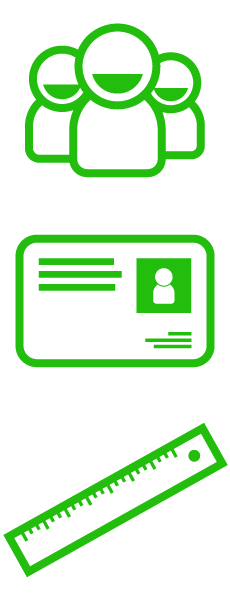
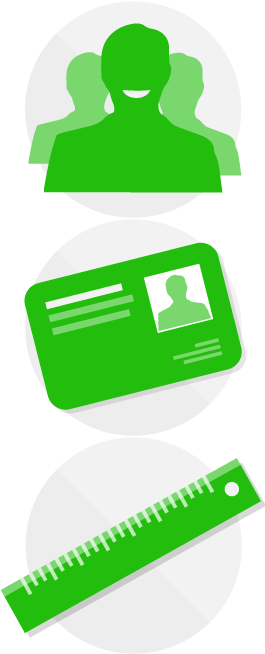
Sección Vision
Inclusión de iconos
Anulación de js

diff --git a/index.html b/index.html
@@ -68,24 +68,29 @@
                     <div class="text">
                         <div class="icon"></div>
                         <h1>Vision</h1>
-                        <strong>We connect businesses with the new generations</strong>
-                        <h2>Customers should get it... Where they here they want it, when they want it and how they want it</h2>
+                        <strong>Customers should get it... Where they here they want it, when they want it and how they want it</strong>
                         <p>Successful products are the result of good products appealing to the targeted people in the right way.</br>
-                        Younger generations behave, appreciate, communicate, decide and shop differently from how their parents did. We bridge the gap between good products and younger generations via creating a RIGHT WAY.</p>
-                        <h2>It should relate, be personal</h2>
-                        <p>Another one-size-fits-all communication, another sad ad, another corporate blah-blah event, another troll in the wall, more spam... First understand what I appreciate, who I am; then build from there.</p>
-                        <h2>It should be easy, friendly</h2>
-                        <p>Media, Telco, Live Streaming, VoD, Online, Games, Walls and Blogs, Trends, Alternative retail channels, Search engines and sites... if you are not using these tools and channels probably you are not fully aligned with the way I talk and where I spend my time.</br>
-                        Make my life easy, come and talk to me.</p>
-                        <h2>It should be measurable</h2>
-                        <p>We believe that any good strategy and plan should include clear goal posts and a success meter. We have digital solutions that measure it from TV coverage for sport sponsorships to Digital analytics for online media.</p>
+                        Younger generations behave, appreciate, communicate, decide and shop differently from how their parents did. We bridge the gap between good products and younger generations via creating a right way.</p>
                     </div>
                 </div>
                 <div class="content column2">
                     <div class="text">
-                        <h3>Asier</h3>
-                        <strong>Founding Partner</strong>
-                        <p>Paul co-founded DesignStudio to offer clients beautifully crafted design on a worldwide scale. He has worked with some of the country's top design agencies, producing award-winning work including branding solutions, guidelines and global design assets for clients including Nokia Siemens Networks and Swisscom.</p>
+                        <div class="items-vision">
+                            <div class="icon-vision personal"></div>
+                            <h2>It should relate, be personal</h2>
+                            <p>Another one-size-fits-all communication, another sad ad, another corporate blah-blah event, another troll in the wall, more spam... First understand what I appreciate, who I am; then build from there.</p>
+                        </div>
+                        <div class="items-vision">
+                            <div class="icon-vision friendly"></div>
+                            <h2>It should be easy, friendly</h2>
+                            <p>Media, Telco, Live Streaming, VoD, Online, Games, Walls and Blogs, Trends, Alternative retail channels, Search engines and sites... if you are not using these tools and channels probably you are not fully aligned with the way I talk and where I spend my time.</br>
+                            Make my life easy, come and talk to me.</p>
+                        </div>
+                        <div class="items-vision">
+                            <div class="icon-vision measurable"></div>
+                            <h2>It should be measurable</h2>
+                            <p>We believe that any good strategy and plan should include clear goal posts and a success meter. We have digital solutions that measure it from TV coverage for sport sponsorships to Digital analytics for online media.</p>
+                        </div>
                     </div>
                 </div>
             </section>

diff --git a/css/main.css b/css/main.css
@@ -144,6 +144,7 @@ section{
     width: -webkit-calc(100% - 40em);
     width: -moz-calc(100% - 40em);
     width: calc(100% - 40em);
+    border-left: 5px solid rgba(0, 0, 0, 0.12);
 }
 .text{
     max-width: 31em;
@@ -204,7 +205,6 @@ article{
 }
 .vision .column2{
     background-color: #22BD0D;
-    display: none;
 }
 .vision strong{
     color: #22BD0D;
@@ -254,16 +254,23 @@ article{
 
 }
 /* Vision */
-.vision{
-    background:transparent no-repeat scroll;
-    background-image:url("../img/vision.png");
-    background-position: right bottom;
+.items-vision {
+    float: left;
 }
-.vision p{
-    display: none;
+.icon-vision {
+    height: 218px;
+    width: 265px;
+    margin: 0 0 2em -90px;
+    float: left;
 }
-.vision h2{
-    cursor: pointer;
+.icon-vision.friendly {
+    background: url('../img/vision-icons.png') no-repeat;
+}
+.icon-vision.personal {
+    background: url('../img/vision-icons.png') no-repeat 0 -218px;
+}
+.icon-vision.measurable {
+    background: url('../img/vision-icons.png') no-repeat 0 -436px;
 }
 /* About us */
 .about{

diff --git a/js/main.js b/js/main.js
@@ -56,16 +56,6 @@ $(window).resize(function() {
     }
 });
 
-//ACCORDION
-$(".vision h2").click(function() {
-    if( $(this).next("p").is(":visible")){
-    	$(this).next("p").slideUp("fast");
-    	}
-    	else {
-        	$(".vision p").slideUp("fast");
-        	$(this).next("p").slideToggle("fast");
-    }
-});
 // PORTFOLIO
 $("#sig_portfolio,#ant_portfolio").click(function(){
     $(".set1,.set2").fadeToggle("fast");
